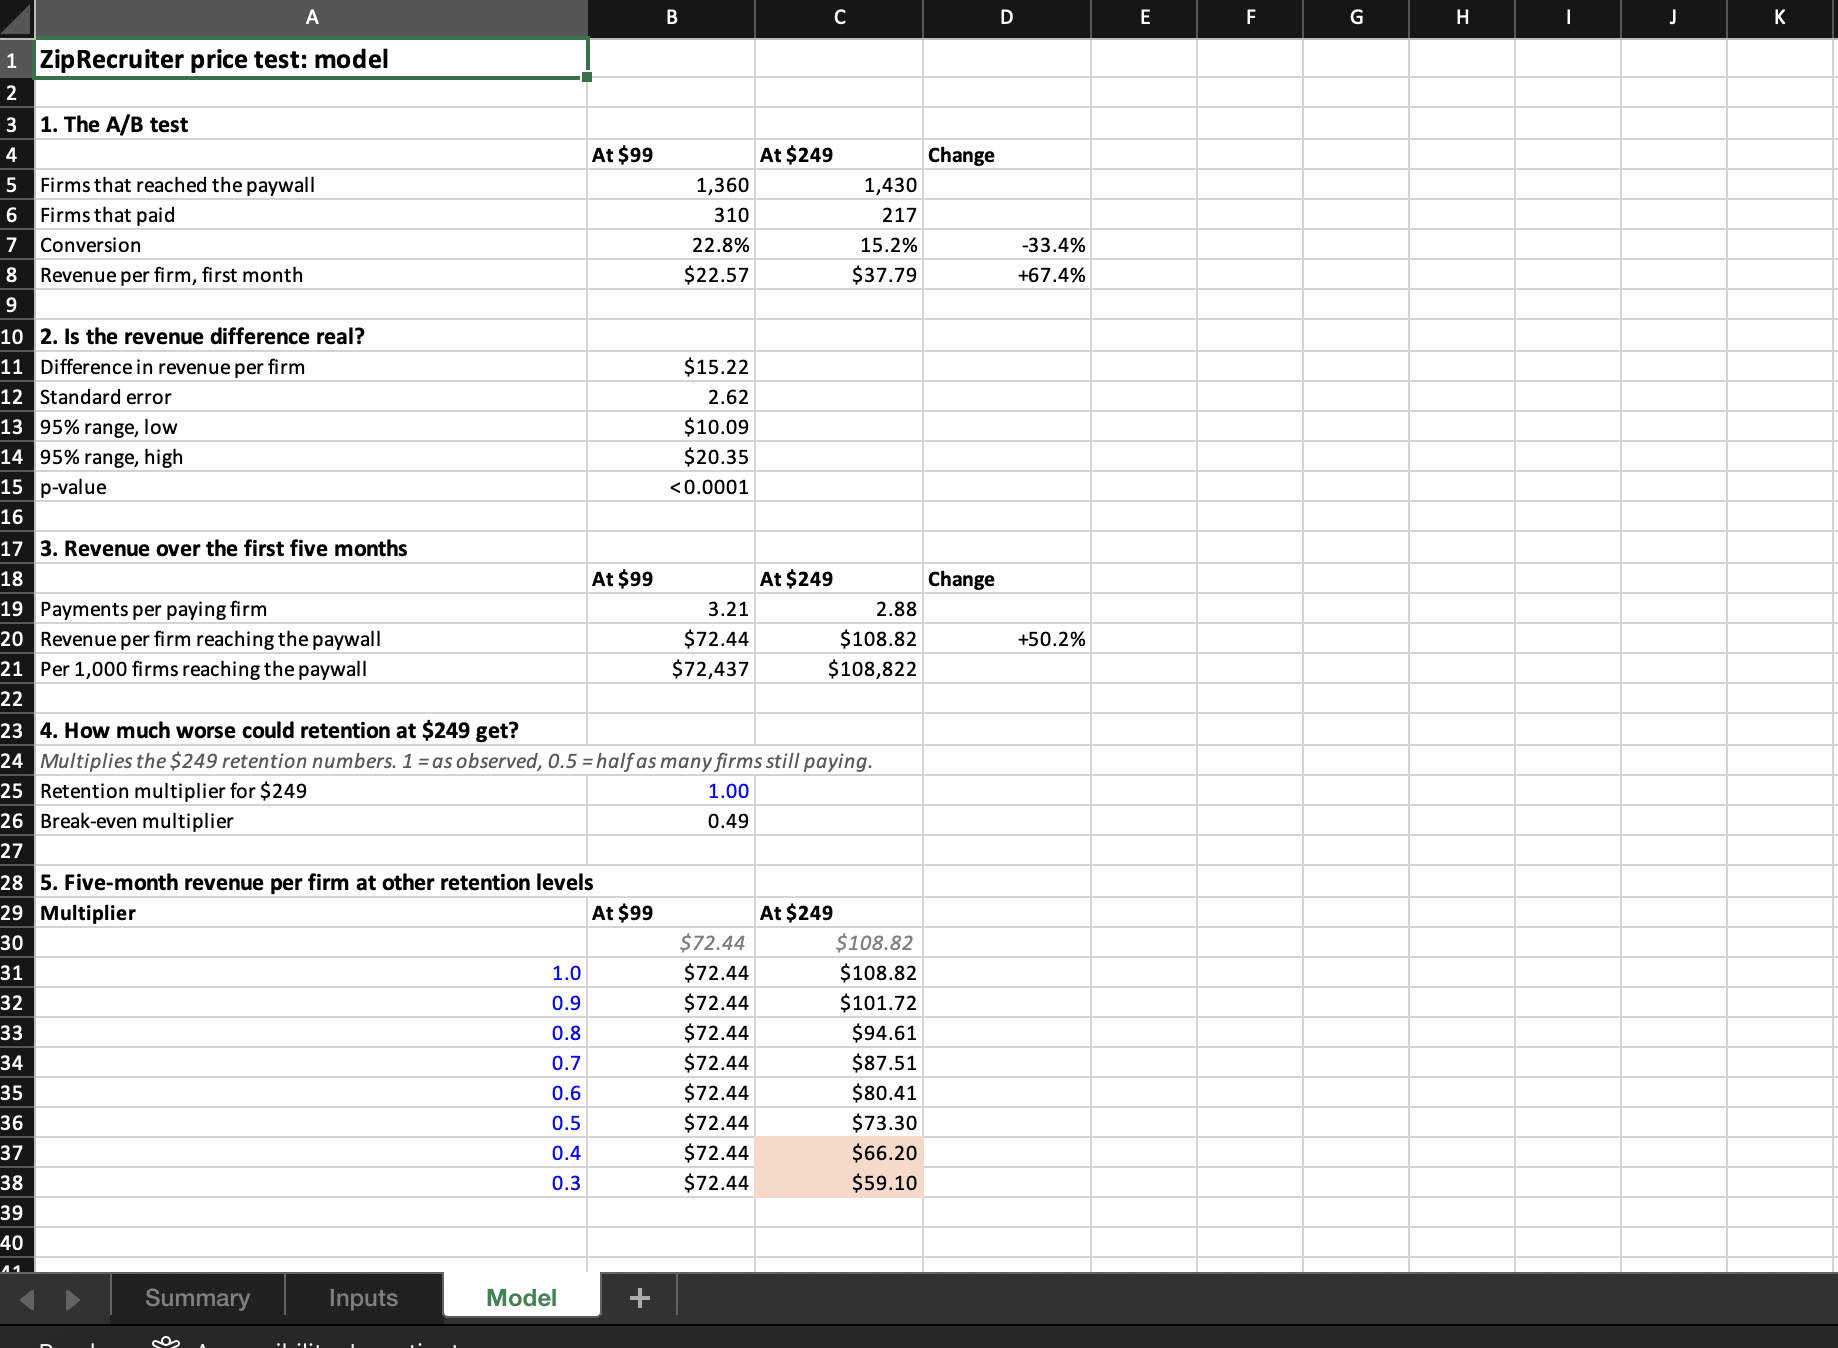
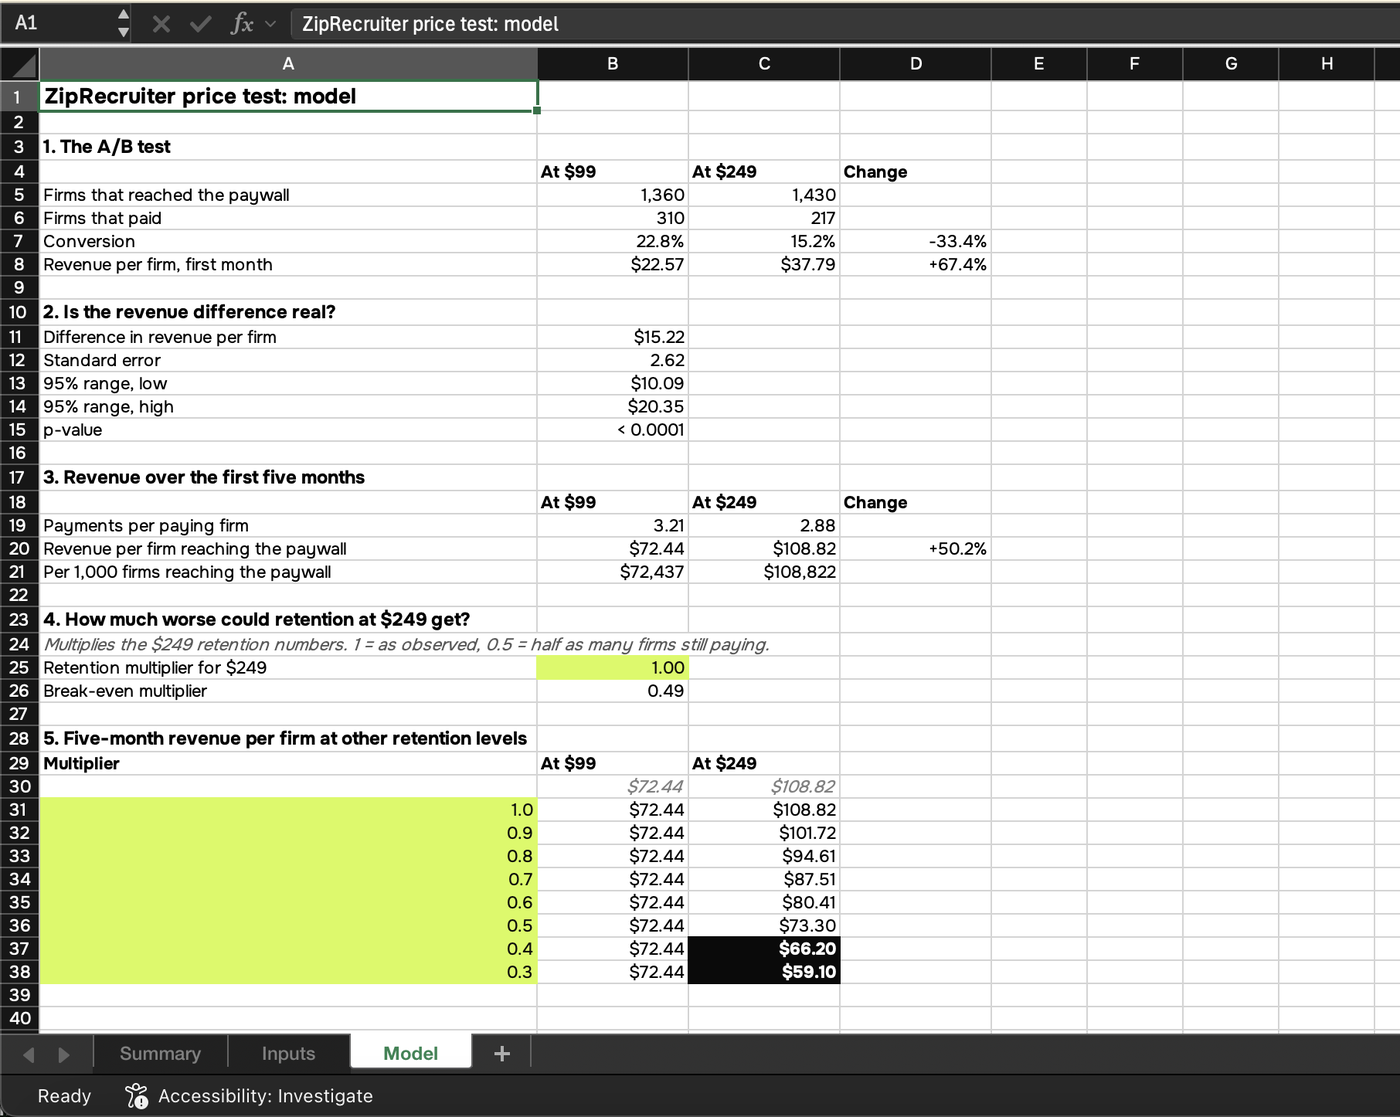
Excel panel: recoloured Summary first, then Model

diff --git a/index.html b/index.html
@@ -111,7 +111,7 @@
             <a class="pill pill-volt" href="https://github.com/azadvoryanskiy/excel-pricing-test">Open the project <i aria-hidden="true">↗</i></a>
             <a class="pill pill-ghost" href="https://github.com/azadvoryanskiy/excel-pricing-test/raw/main/zip-recruiter-price-test.xlsx">Workbook <i aria-hidden="true">↓</i></a>
           </div>
-          <img class="poster" src="shots/excel-model.png" alt="The Model sheet of the pricing workbook" loading="lazy">
+          <img class="poster" src="shots/excel-summary.png" alt="The Summary sheet of the pricing workbook: key numbers and four charts" loading="lazy">
         </article>
 
         <article class="scene" data-scene="2" aria-labelledby="p2">

diff --git a/js/projects.js b/js/projects.js
@@ -24,7 +24,7 @@ export const SCREENS = [
     back: "EXCEL",
     label: "02 · Excel",
     repo: "zip-recruiter-price-test.xlsx",
-    images: ["shots/excel-model.png", "shots/excel-summary.png"],
+    images: ["shots/excel-summary.png", "shots/excel-model.png"],
   },
   {
     id: "tableau",
